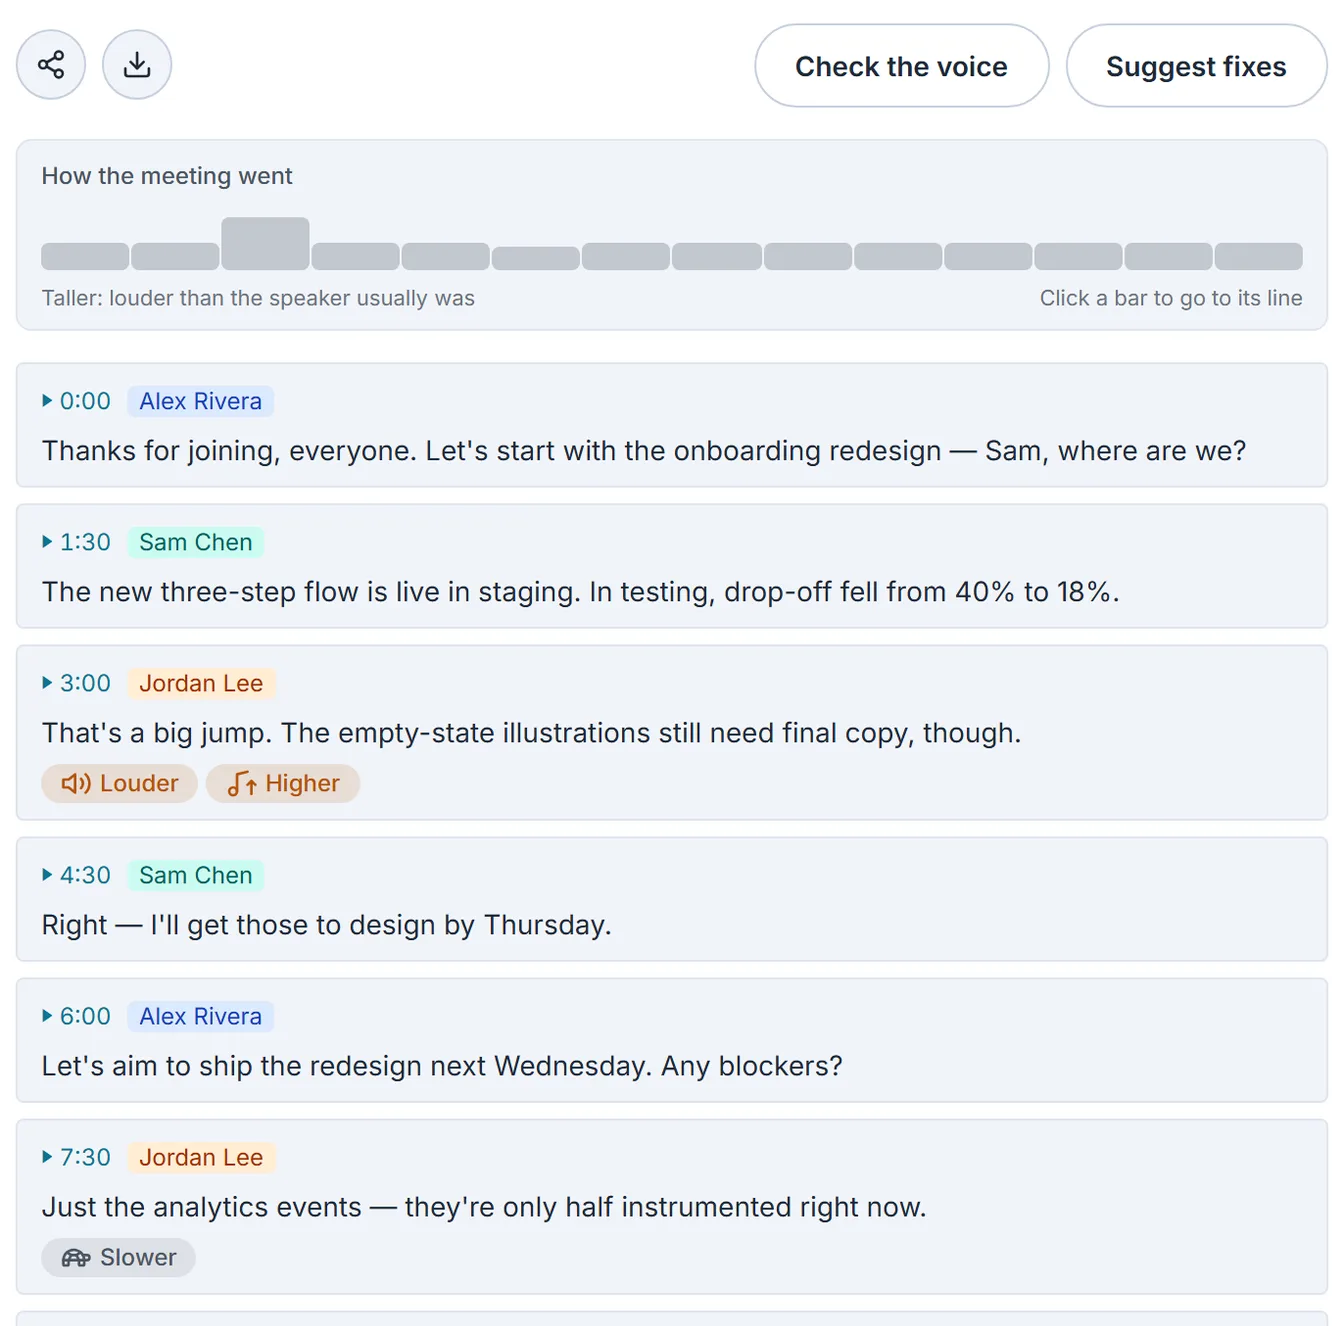
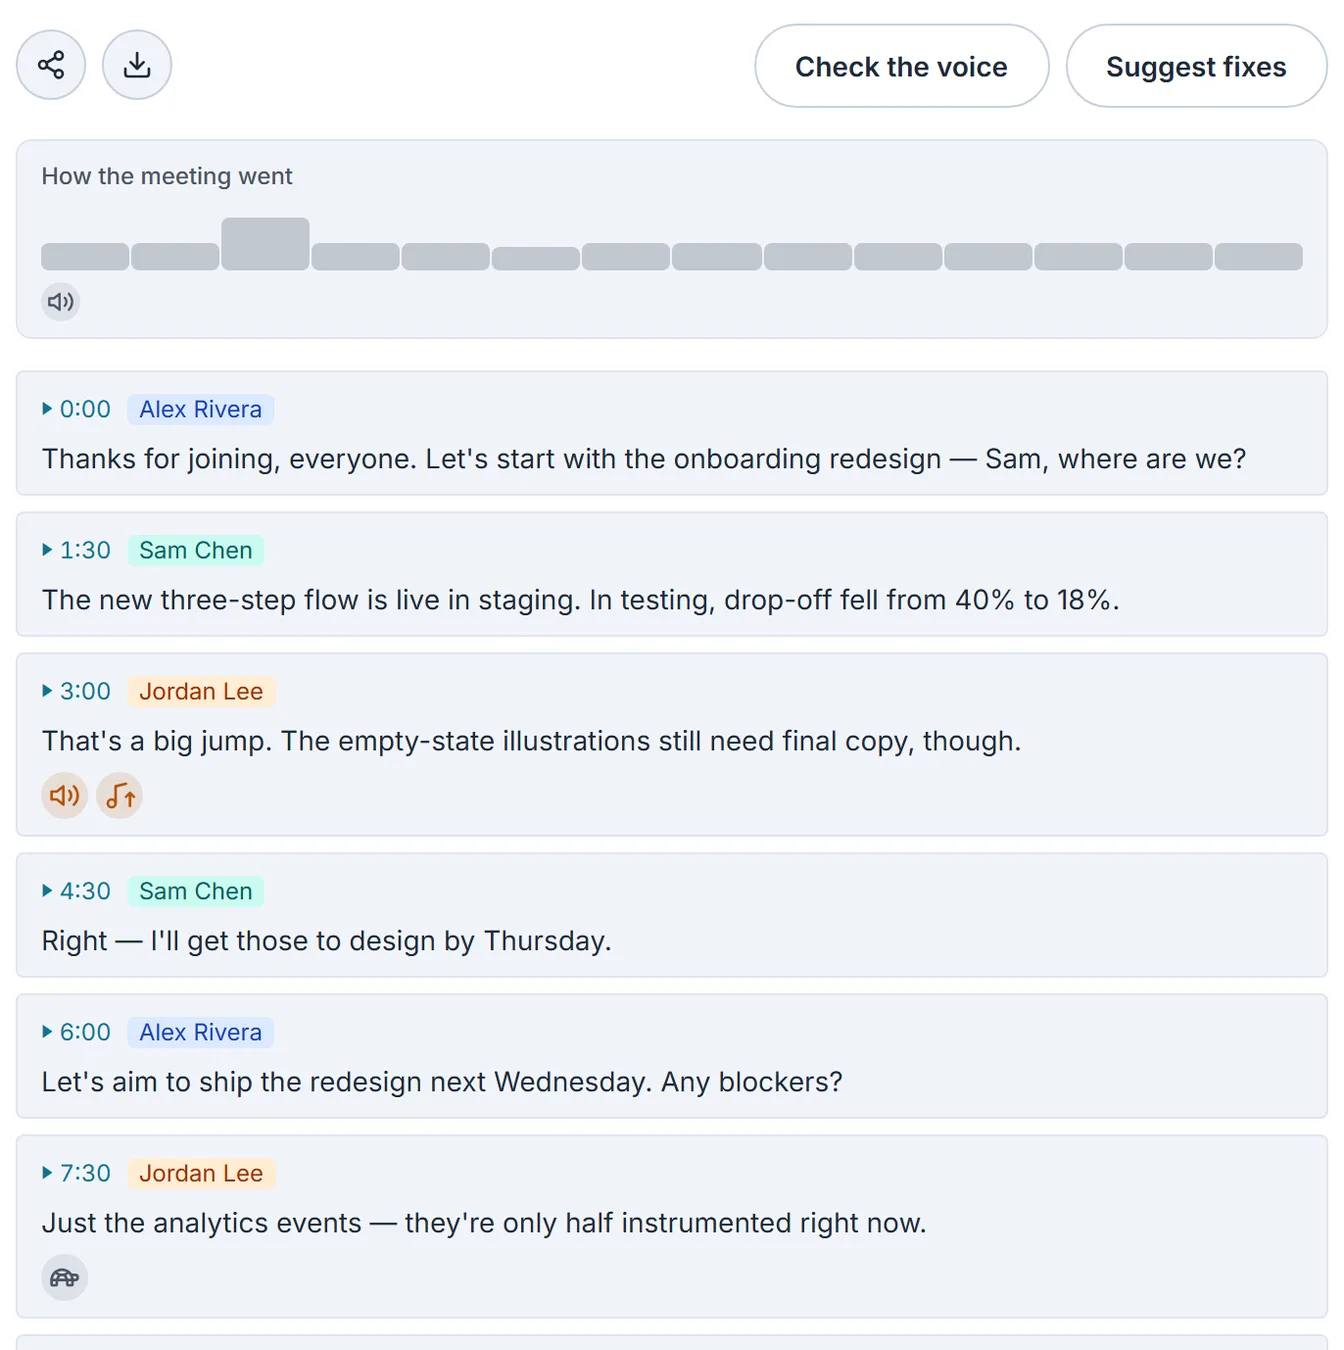
Show emotion as a face alone, and the strip's key as pictures
The emotion badge carries only its face; the word and how sure it was
are in the tooltip and the screen reader's label. The strip's key is
the three faces and a speaker for loudness, each explained in its
tooltip, and "click a bar" moves to the strip's own tooltip.

diff --git a/app/[id]/mood-strip.tsx b/app/[id]/mood-strip.tsx
@@ -4,6 +4,7 @@ import { emotionMark, readEmotion } from "@/lib/emotion";
 import { readCues } from "@/lib/voice-cues";
 import { formatOffset } from "@/lib/utils";
 import { useT } from "@/app/locale-provider";
+import { FaceAngerIcon, FaceJoyIcon, FaceSadIcon, VolumeUpIcon } from "@/app/icons";
 
 // The meeting at a glance: one bar per line, in the order they were said. Its colour is what the
 // line sounded like (Emotion) and its height how loud it was against that speaker's usual (Voice
@@ -16,6 +17,7 @@ import { useT } from "@/app/locale-provider";
 type Line = { id: string; text: string; voice?: string | null; emotion?: string | null };
 
 const MOOD_COLOR = { joy: "--mood-joy", anger: "--mood-anger", sadness: "--mood-sad" } as const;
+const FACE = { joy: FaceJoyIcon, anger: FaceAngerIcon, sadness: FaceSadIcon } as const;
 
 /** Bar heights in px, from quiet to loud. Loudness is clamped at two deviations either way. */
 const MIN_H = 6;
@@ -64,7 +66,12 @@ export function MoodStrip({
   return (
     <div className="mt-4 rounded-lg border border-[var(--border)] bg-[var(--elevated)] px-3 pb-2 pt-2.5">
       <p className="text-xs font-medium text-[var(--text-secondary)]">{t("How the meeting went")}</p>
-      <div className="mt-2 flex h-8 items-end gap-px" role="list" aria-label={t("How the meeting went")}>
+      <div
+        className="mt-2 flex h-8 items-end gap-px"
+        role="list"
+        aria-label={t("How the meeting went")}
+        title={t("Click a bar to go to its line")}
+      >
         {bars.map((b, i) => {
           const at = elapsed(i);
           const label = [
@@ -93,19 +100,38 @@ export function MoodStrip({
           );
         })}
       </div>
-      <div className="mt-1.5 flex flex-wrap items-center gap-x-3 gap-y-1 text-[11px] text-[var(--text-muted)]">
-        {showEmotion ? (
-          <>
-            {(["joy", "anger", "sadness"] as const).map((e) => (
-              <span key={e} className="inline-flex items-center gap-1">
-                <span className="inline-block h-2.5 w-2.5 rounded-sm" style={{ background: `var(${MOOD_COLOR[e]})` }} />
-                {feeling(e)}
-              </span>
-            ))}
-          </>
+      {/* The key, as pictures: what each colour and the height mean is in their tooltips. */}
+      <div className="mt-1.5 flex items-center gap-1.5">
+        {showEmotion
+          ? (["joy", "anger", "sadness"] as const).map((e) => {
+              const Face = FACE[e];
+              return (
+                <span
+                  key={e}
+                  role="img"
+                  aria-label={feeling(e)}
+                  title={feeling(e)}
+                  className="inline-flex h-5 w-5 items-center justify-center rounded-full"
+                  style={{
+                    color: `var(${MOOD_COLOR[e]})`,
+                    background: `color-mix(in srgb, var(${MOOD_COLOR[e]}) 14%, transparent)`,
+                  }}
+                >
+                  <Face className="h-3.5 w-3.5" />
+                </span>
+              );
+            })
+          : null}
+        {showVoice ? (
+          <span
+            role="img"
+            aria-label={t("Taller: louder than the speaker usually was")}
+            title={t("Taller: louder than the speaker usually was")}
+            className="inline-flex h-5 w-5 items-center justify-center rounded-full bg-[color-mix(in_srgb,var(--text-muted)_14%,transparent)] text-[var(--text-secondary)]"
+          >
+            <VolumeUpIcon className="h-3.5 w-3.5" />
+          </span>
         ) : null}
-        {showVoice ? <span>{t("Taller: louder than the speaker usually was")}</span> : null}
-        <span className="ml-auto">{t("Click a bar to go to its line")}</span>
       </div>
     </div>
   );
